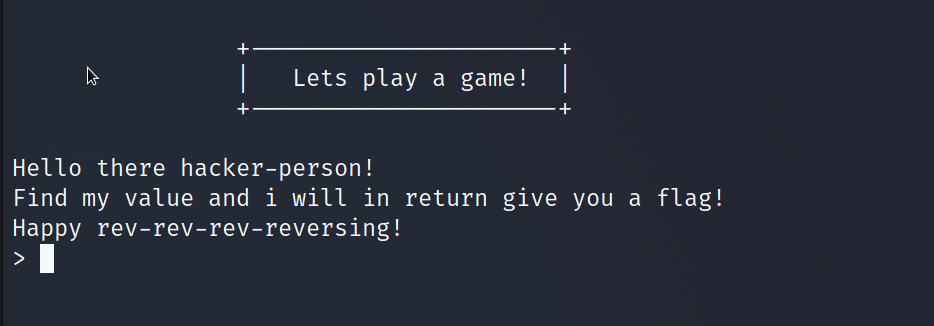
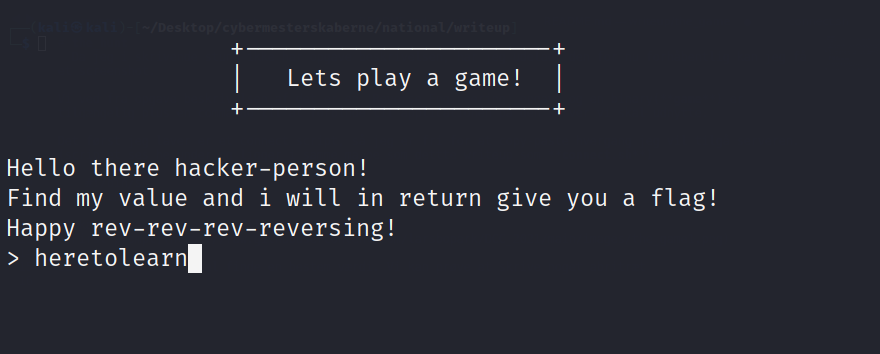
More testing

diff --git a/the_game/README.md b/the_game/README.md
@@ -11,3 +11,8 @@ Det først jeg laver er et connect script, så jeg er fri for at copy-paste hver
 
 Vi kan prøve at eksekvere filen:
 ![First prompt](https://raw.githubusercontent.com/larsbopark/DCC_2021/main/images/the_game1.png)
+Så vi kan se at vi skal finde en bestem værdi. Vi kan prøve at skrive noget abritræt, i dette tilfælde er det: **heretolearn**
+
+![Second promt](https://raw.githubusercontent.com/larsbopark/DCC_2021/main/images/the_game2.png)
+
+Hvilket ser ud til ikke føre nogle steder, da programmet returnere og lukker.
